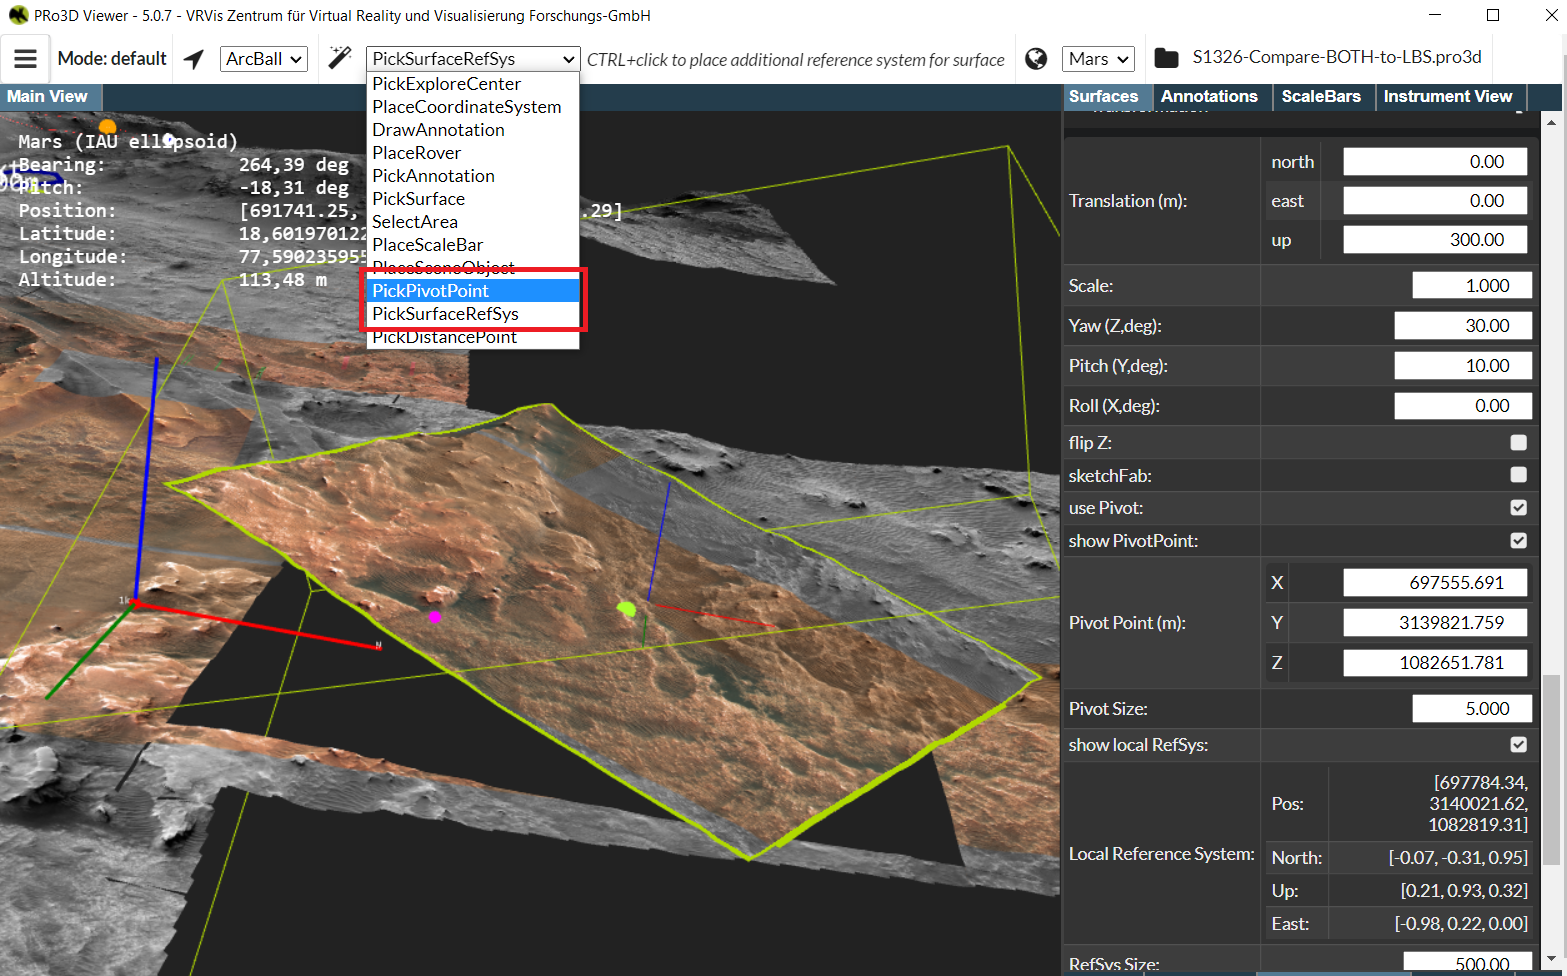
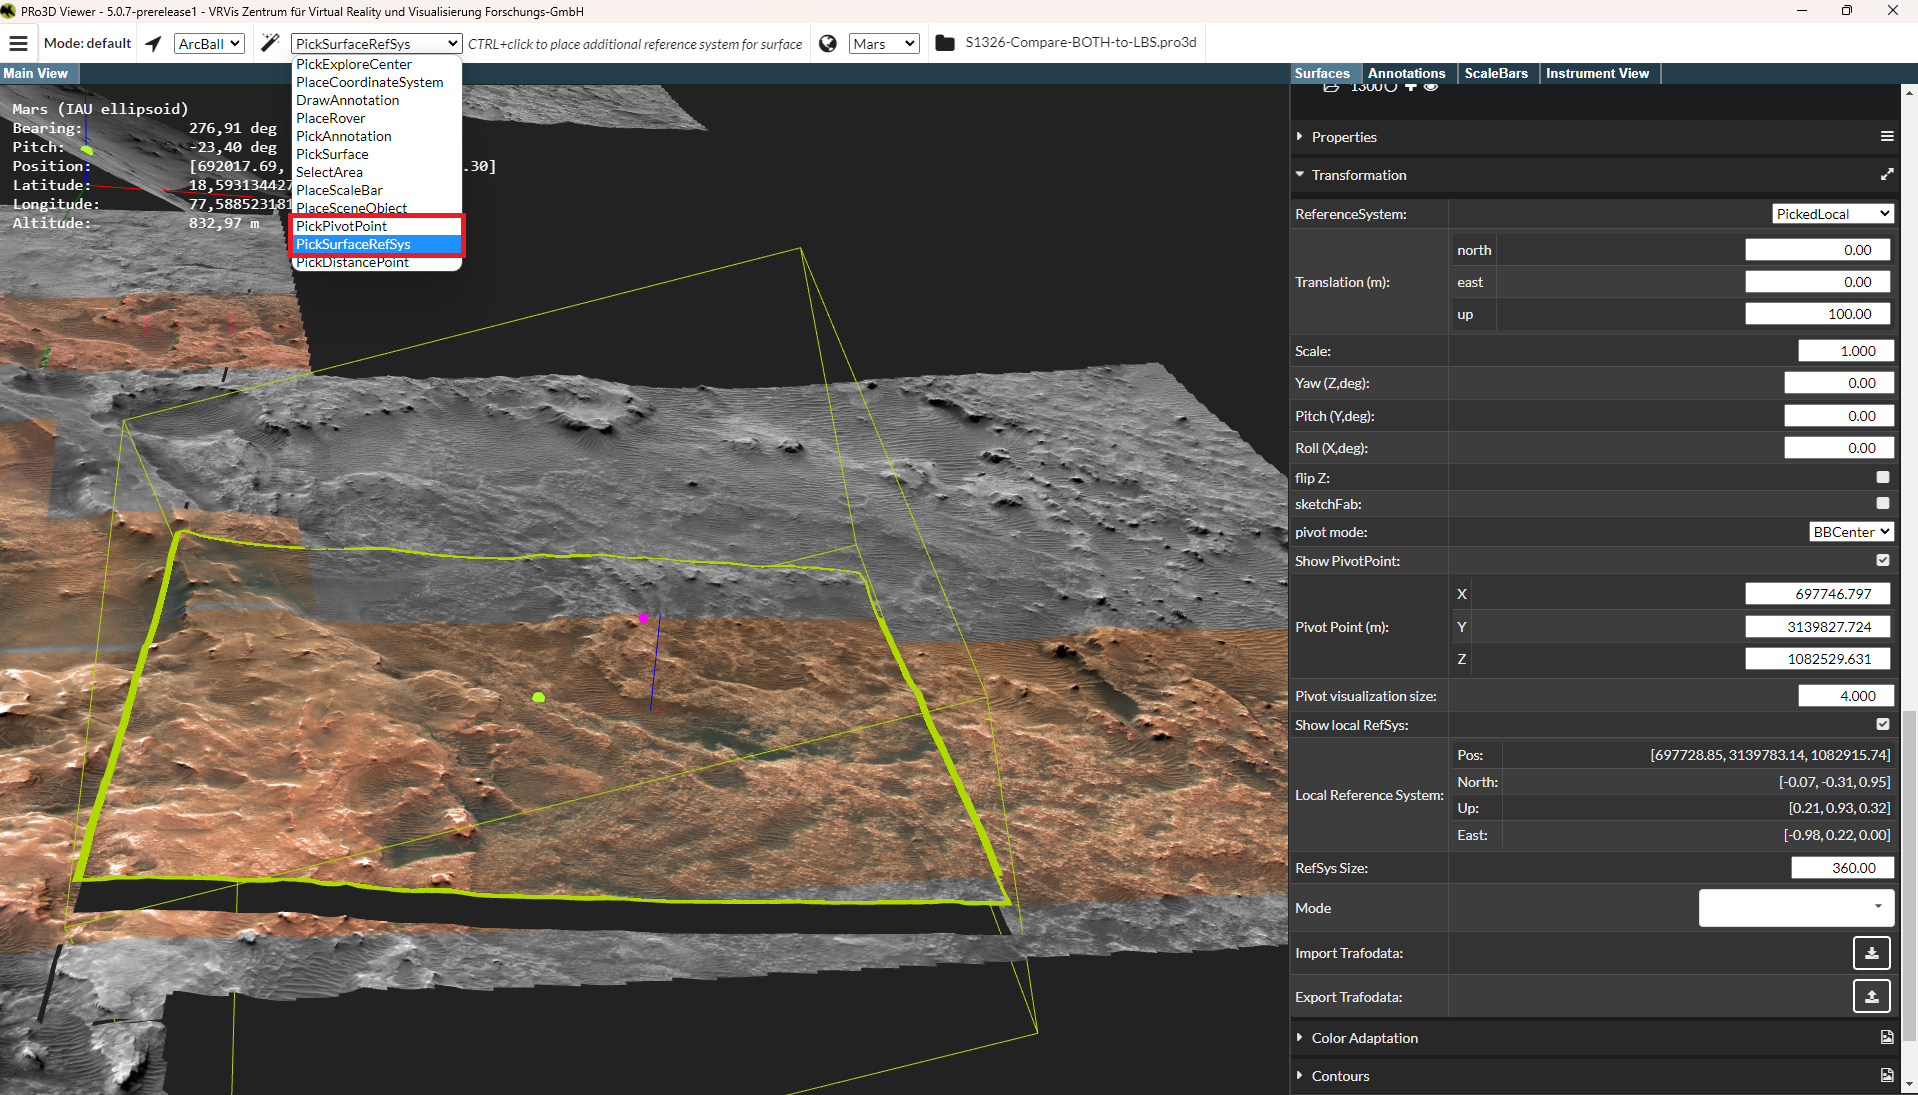
update Transformations.md

diff --git a/docs/Transformations.md b/docs/Transformations.md
@@ -1,36 +1,49 @@
 ## Transformations
 
-To transform a surface, it must first be selected. The tool supports two types of transformations:
+To transform a surface, it must first be selected. Then the user has to select in the surface's Transformations menu:
 
-1. **Global Transformation**
+1. **A reference system.**
+    The translation occurs along and the rotations around the axes directions of the selected reference system. 
+    There are two recommendet ways to set a reference system.
+    The third option is outdated and is not recommended!
+    ![alt text](./images/RefSys.png)
+    - **PivotCenter:** A local reference system is placed at the pivot position (therefore you have to place a pivot first, see below).
+    - **PickedLocal:** To place the local reference system, select **PickSurfaceRefSys** in the picking interactions menu, then use **Ctrl + LMB** to position the local reference system at an appropriate location on or near the surface. 
+    ![alt text](./images/LocalRefSys.png)
+    - **LEGACY_Global:** For global transformation the orientations of the global scene reference system are used. That means the translation occurs along the directions of the axes of the global reference system. Therefore, it is important that this system is strategically well placed in the scene. 
+    **NOTE:** It is not recommended to select this option!! It ist only used for scenes with older versions.
 
-2. **Local Transformation**
+2. **A pivot.**
+    For local transformations, a pivot point must be defined for the selected surface. This pivot acts as the origin for all local transformations and remains fixed on the surface—even when the surface is translated.
+    To use the pivot,  **Show Pivot** must be enabled in the Transformation GUI. Here too, option three is not recommended!!
 
-### Global Transformation
-For global transformations, the position and orientation of the global reference system are used. Therefore, it is important that this system is strategically well placed in the scene.
+    ![alt text](./images/Pivot.png)
+    
+    - **BBCenter:** The pivot point is placed at the center of the surface's bounding box and serves as the origin for rotation and scaling.
+    - **PickPivot:** In the picking interactions dropdown menu, select **PickPivotPoint**, then press **Ctrl + LMB** to   place the pivot at a desired point on the surface. This point serves as the origin for rotation and scaling.
+    - **NoPivot:** The origin of the scene's global reference system is also used as the center for rotation and scaling.
+    **NOTE:** It is not recommended to select this option!! It ist only used for scenes with older versions.
 
-![alt text](./images/GlobalRefSys.png)
-
-### Local Transformation
-For local transformations, a pivot point must be defined for the selected surface. This pivot acts as the origin for all local transformations and remains fixed on the surface—even when the surface is translated.
-
-Additionally, a local reference system can be placed to further guide and calculate local transformations more precisely. 
-
-![alt text](./images/LocalRefSys.png)
-
-To use the pivot, both **Use Pivot** and **Show Pivot** must be enabled in the Transformation GUI.
-In the main menu, select **PickPivotPoint**, then press **Ctrl + LMB** to place the pivot at a desired point on the surface.
-The pivot point's position will be displayed, and its size can also be adjusted.
-
-To place the local reference system, select **PickSurfaceRefSys** in the main menu, then use **Ctrl + LMB** to position the local reference system at an appropriate location on the surface.
-
-![alt text](./images/PivotGui.png)
 
 ### Transformation UI
 
 ![alt text](./images/TrafoGui.png)
 
-For **global transformation**, translation occurs along the axes of the global reference system. The origin of the reference system is also used as the center for rotation and scaling.
-
-For **local transformation**, the pivot point serves as the origin for rotation and scaling.
-Translation occurs either along the axes of the local reference system (if one is defined), or otherwise along the axes of the global reference system.
+- **ReferenceSystem:** Described above.
+- **Translation(m):** The translation occurs along the axes of the selected reference system (as described above). The translation can be entered in the input fields of the respective axes.
+- **Scale:** The scaling center ist the pivot position.
+- **Yaw(Z,deg):** Rotation around yaw or z-axis. The rotation center is the pivot position. Rotation unit is degrees.
+- **Pitch(Y,deg):** Rotation around pitch or y-axis. The rotation center is the pivot position. Rotation unit is degrees.
+- **Roll(X,deg):** Rotation around roll or x-axis. The rotation center is the pivot position. Rotation unit is degrees.
+- **flip Z:** Flips the z-coordinate upside down.
+- **sketchFab:**
+- **pivot mode:** Described above.
+- **show PivotPoint:** Must be enabled to see and use the pivot.
+- **Pivot Point (m):** The position of the pivot can also be adjusted via the UI.
+- **Pivot visualization size:** The size of the sphere that visualizes the pivot.
+- **Show local RefSys:** Must be enabled to see and use the local reference system (PivotCenter or PickedLocal).
+- **Local Reference System:** The position and directions of the local reference system.
+- **RefSys Size:** The size of the cross that visualizes the local reference system.
+- **Mode:** Change the euler directions to avoid a possible gimbal lock.
+- **Import Trafodata:** Import trafo from a json file.
+- **Export Trafodata:** Export trafo to a json file.
